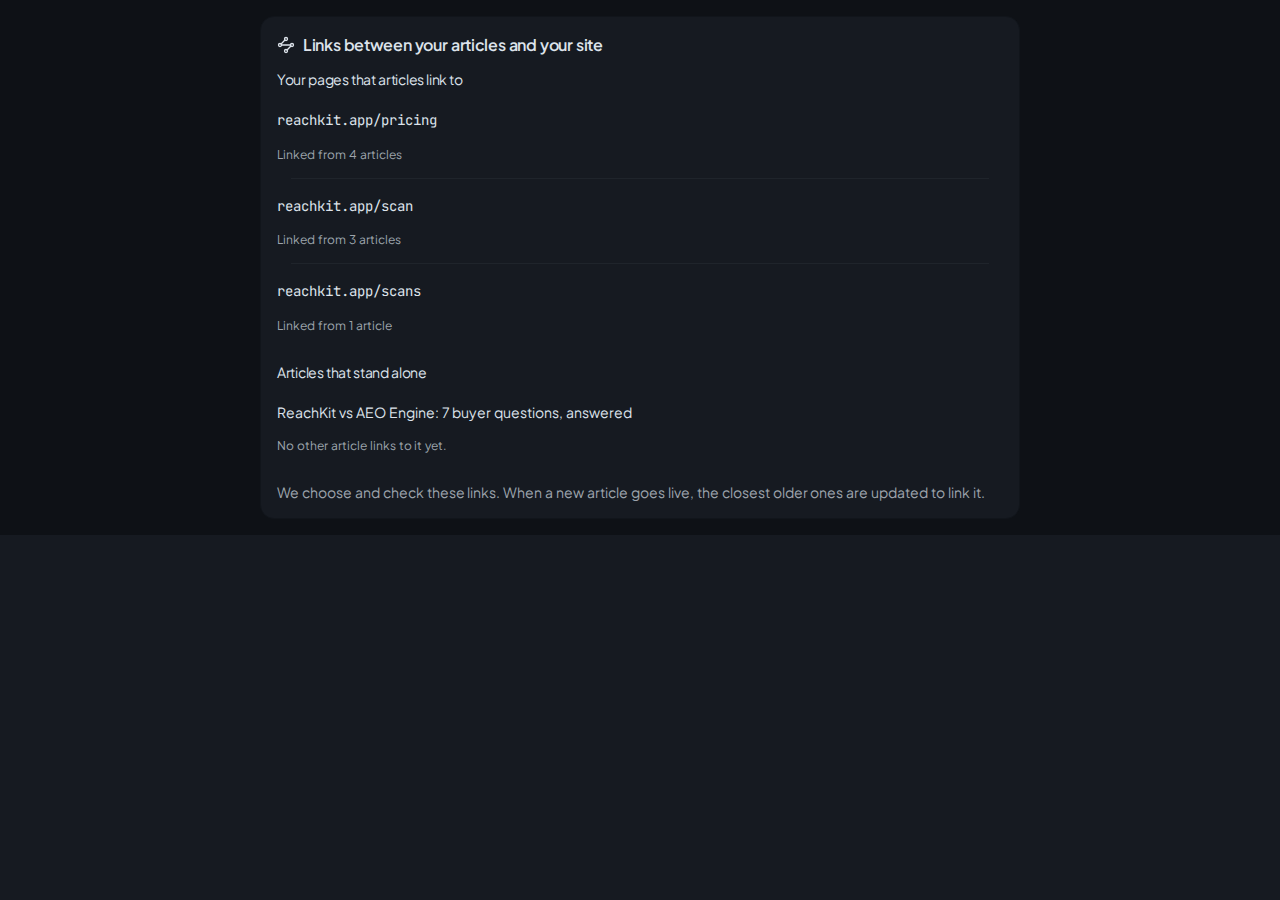
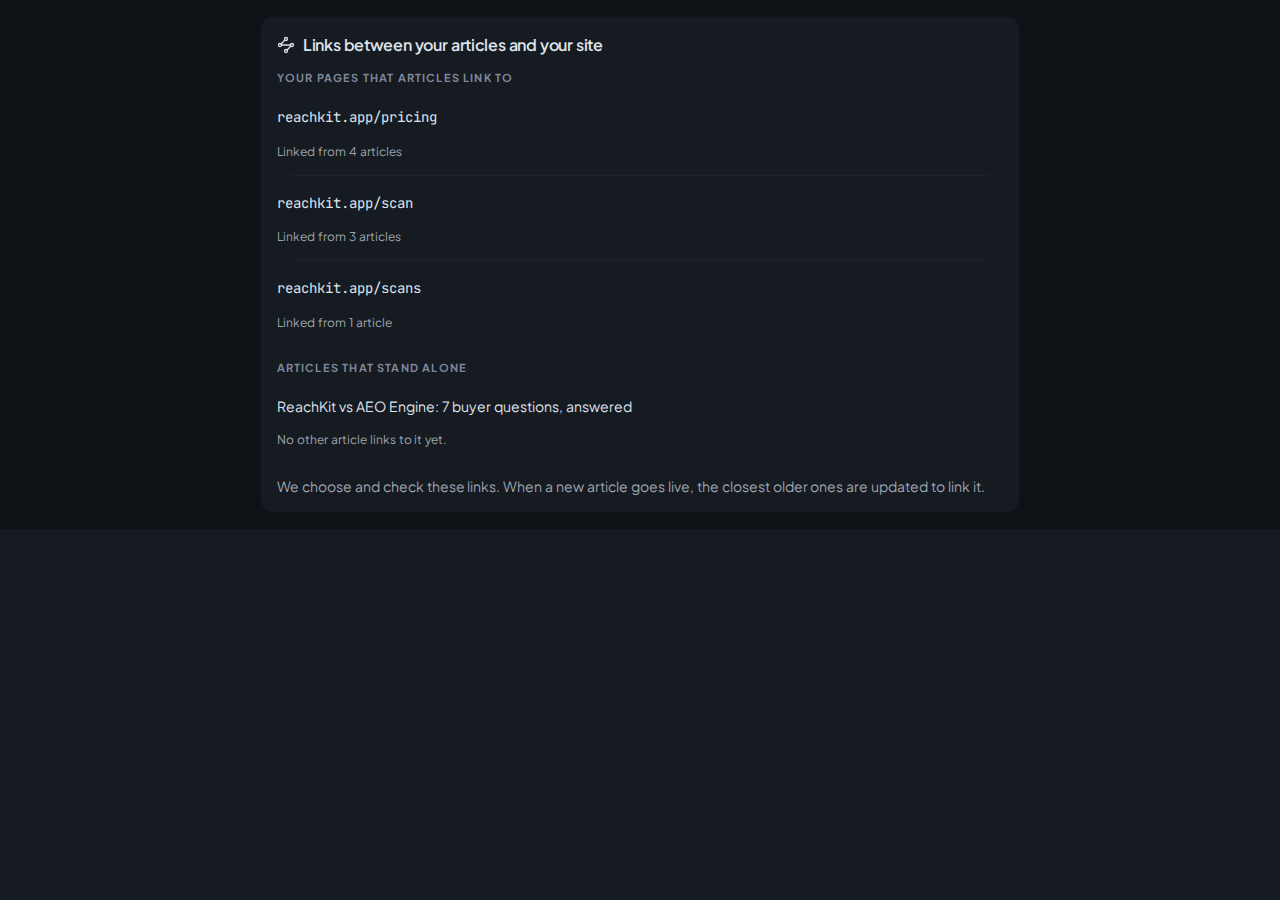
fix(F7): the link cards' sub-headings take the eyebrow rung, not a size the card already has (#1391)
text-sm on an h3 inside a card whose text is already 14px sized nothing, so
the heading-scale gate read it as an unclassed h3 below the body size.

diff --git a/src/app/(account)/app/draft/[draftId]/ReviewCards.tsx b/src/app/(account)/app/draft/[draftId]/ReviewCards.tsx
@@ -549,7 +549,7 @@ export function LinksCard(p: { links: PageLinks }): React.JSX.Element | null {
               {LINK_GROUPS.map(({ group, title }) =>
                 p.links[group].length === 0 ? null : (
                   <div className="flex min-w-0 flex-col gap-1" key={group} data-testid={`draft-links-${group}`}>
-                    <h3 className="text-sm font-medium">{copy(title)}</h3>
+                    <h3 className="eyebrow">{copy(title)}</h3>
                     <ul className="list bg-base-100 min-w-0 rounded-box">
                       {p.links[group].map((link) => (
                         <li className="list-row min-w-0" key={link.url}>
@@ -574,7 +574,7 @@ export function LinksCard(p: { links: PageLinks }): React.JSX.Element | null {
 
               {p.links.removed.length === 0 ? null : (
                 <div className="flex min-w-0 flex-col gap-1" data-testid="draft-links-removed">
-                  <h3 className="text-sm font-medium">{copy("draft.links.removed")}</h3>
+                  <h3 className="eyebrow">{copy("draft.links.removed")}</h3>
                   <ul className="list bg-base-100 min-w-0 rounded-box">
                     {p.links.removed.map((link) => (
                       <li className="list-row min-w-0" key={`${link.url}-${link.text}`}>

diff --git a/src/app/(account)/app/settings/panels/LinkMapPanel.tsx b/src/app/(account)/app/settings/panels/LinkMapPanel.tsx
@@ -50,7 +50,7 @@ export function LinkMapPanel(p: { map: LinkMap }): React.JSX.Element {
         ) : (
           <>
             <div className="flex min-w-0 flex-col gap-1">
-              <h3 className="text-sm font-medium">{copy("settings.linkmap.receiving")}</h3>
+              <h3 className="eyebrow">{copy("settings.linkmap.receiving")}</h3>
               {p.map.receiving.length === 0 ? (
                 <p className="text-sm text-base-content/70">{copy("settings.linkmap.receiving.none")}</p>
               ) : (
@@ -74,7 +74,7 @@ export function LinkMapPanel(p: { map: LinkMap }): React.JSX.Element {
             </div>
 
             <div className="flex min-w-0 flex-col gap-1">
-              <h3 className="text-sm font-medium">{copy("settings.linkmap.alone")}</h3>
+              <h3 className="eyebrow">{copy("settings.linkmap.alone")}</h3>
               {p.map.alone.length === 0 ? (
                 <p className="text-sm text-base-content/70">{copy("settings.linkmap.alone.none")}</p>
               ) : (
